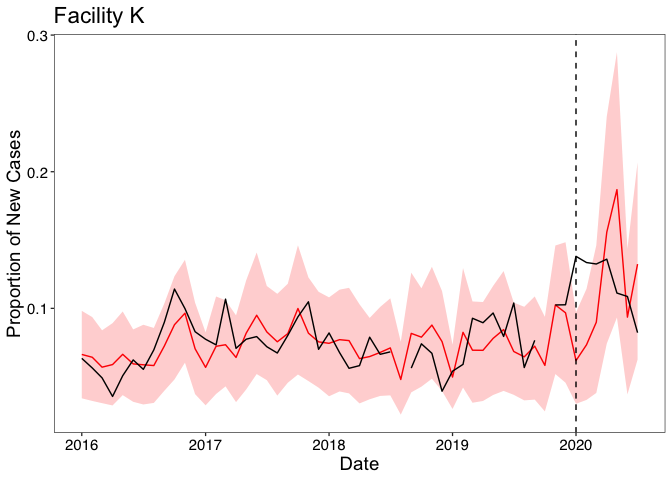
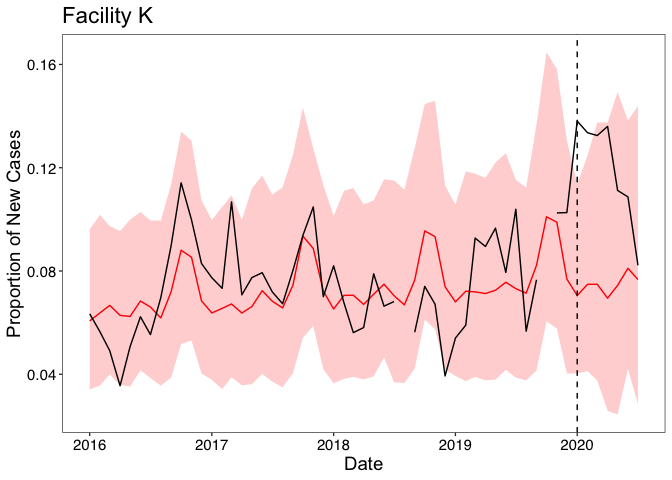
Knit and push

diff --git a/README.md b/README.md
@@ -1,3 +1,23 @@
+-   [Global COVID-19 Response](#global-covid-19-response)
+    -   [Table of Contents](#table-of-contents)
+    -   [About:](#about)
+    -   [Goals:](#goals)
+    -   [Modeling technique:](#modeling-technique)
+        -   [Facility-level models:](#facility-level-models)
+        -   [District and county-level
+            models:](#district-and-county-level-models)
+        -   [Deviations and data
+            visualizations:](#deviations-and-data-visualizations)
+        -   [Missing data considerations:](#missing-data-considerations)
+    -   [Overview of folders and files:](#overview-of-folders-and-files)
+        -   [Data](#data)
+        -   [R](#r)
+        -   [Figures](#figures)
+    -   [Examples](#examples)
+        -   [Loading Data and Functions](#loading-data-and-functions)
+        -   [Example 1: Single Facility](#example-1-single-facility)
+        -   [Example 2: All Facilities](#example-2-all-facilities)
+        -   [Example 3: County-level](#example-3-county-level)
 
 Global COVID-19 Response
 ========================
@@ -52,8 +72,6 @@ The process starting with the raw data and finishing with the various
 outputs is referred to as the Data Processing Pipeline (see Figure 1
 below):
 
-![](figures/pipeline.png)
-
 After data has been cleaned, it is processed according to the level it
 is available at (either on a facility of county/district basis) for each
 indicator. This is done by taking data from a historic baseline period,
@@ -70,10 +88,9 @@ processing stages.
 For facility-level assessments, we fit a generalized linear model with
 negative binomial distribution and log-link to estimate expected monthly
 counts. Only data from the baseline period will be used to estimate the
-expected counts: 
+expected counts:
 
-![](figures/modelling_equation_1.png)
-
+$$ \\log(E\[Y | year, t \]) = \\beta\_0 + \\beta\_1year + \\sum\_{k=1}^{3} \\beta\_{k1} cos(2 \\pi kt/12) + \\beta\_{k2} sin(2 \\pi kt/12) $$
 where Y indicates monthly indicator count, t indicates the cumulative
 month number. The year term captures trend, and the harmonic term
 captures seasonality. This model is an adaptation of that proposed by
@@ -125,7 +142,7 @@ region. The region-level count estimates can then be obtained by
 integrating over the random effects distribution. Ultimately, we did not
 choose this model due to its lack of flexibility in dealing with missing
 data.
-![](figures/modelling_equation_2.png)
+$$ \\log(E\[Y\_j | year, t \]) = \\beta\_0 ^\* + \\beta\_1^\*year + \\sum\_{k=1}^{3} \\beta\_{k1}^\* cos(2 \\pi kt/12) + \\beta\_{k2}^\* sin(2 \\pi kt/12) + \\gamma \_{0j} $$
 
 ### Deviations and data visualizations:
 
@@ -212,8 +229,9 @@ Examples
     ## #   indicator_denom_over5 <dbl>
 
 The data loaded here are taken from a county in Liberia and perturbed
-slightly. The indicator of interest is acute respiratory infections,
-disaggregated by age, and we also see total outpatient visits
+slightly. The indicator of interest is acute respiratory infections
+(first column: indicqtor\_count\_ari\_total), disaggregated by age
+(following 2 columns), and we also see total outpatient visits
 (indicator\_denom)–a measure of healthcare utilization–disaggregated by
 age.
 
@@ -238,19 +256,19 @@ model, and look at the results through the counts and proportion lenses.
     head(example_1_results)
 
     ##         site       date est_raw_counts ci_raw_counts_low ci_raw_counts_up
-    ## 1 Facility K 2016-01-01       282.6626               159              436
-    ## 2 Facility K 2016-02-01       294.4013               171              449
-    ## 3 Facility K 2016-03-01       294.5908               173              452
-    ## 4 Facility K 2016-04-01       280.8624               162              436
-    ## 5 Facility K 2016-05-01       296.5714               170              450
-    ## 6 Facility K 2016-06-01       322.2265               193              486
+    ## 1 Facility K 2016-01-01       278.9518               163              436
+    ## 2 Facility K 2016-02-01       291.6721               167              455
+    ## 3 Facility K 2016-03-01       292.0675               167              435
+    ## 4 Facility K 2016-04-01       277.7879               155              428
+    ## 5 Facility K 2016-05-01       292.9597               167              453
+    ## 6 Facility K 2016-06-01       319.0795               190              491
     ##   observed   est_prop ci_low_prop ci_up_prop observed_prop
-    ## 1      275 0.06627292  0.03416126 0.09819841    0.06340789
-    ## 2      258 0.06421627  0.03223817 0.09361499    0.05638112
-    ## 3      249 0.05696364  0.03061136 0.08394457    0.04912211
-    ## 4      172 0.05886302  0.02894142 0.08918248    0.03553719
-    ## 5      230 0.06637652  0.03648612 0.09771720    0.05070547
-    ## 6      342 0.05935893  0.03160090 0.08458903    0.06226106
+    ## 1      275 0.06064100  0.03412497 0.09617247    0.06340789
+    ## 2      258 0.06381119  0.03562063 0.10173186    0.05638112
+    ## 3      249 0.06667982  0.03993391 0.09738114    0.04912211
+    ## 4      172 0.06280992  0.03583161 0.09548554    0.03553719
+    ## 5      230 0.06238977  0.03526235 0.09986772    0.05070547
+    ## 6      342 0.06835973  0.04149827 0.10285818    0.06226106
 
 ##### Single Facility Counts Results
 
@@ -292,8 +310,8 @@ light red (using the model described above).
 
 #### Example 2: All Facilities
 
-We repeat the process above for all indicators and all facilites. In
-this example dataset, there are 25 facilites, 1 syndromic surveillance
+We repeat the process above for all indicators and all facilities. In
+this example dataset, there are 25 facilities, 1 syndromic surveillance
 indicator (ARI) and 1 denominator indicator (total denominator or
 outpatient visits–a measure of healthcare utilization).
 
@@ -336,11 +354,13 @@ outpatient visits–a measure of healthcare utilization).
     ## 5       17 0.1056909 0.009684995  0.1928747    0.06273063
     ## 6       44 0.1098465 0.013500311  0.2040849    0.16117216
 
-We need to repeat the same process above but for the denominator
-indicator variables. This is needed for the subsequent district-level
-and county-level analyses because we use the facility-level estimates
-for denominator to randomly impute, just as we randomly impute missing
-syndromic surveillance indicator values using the code chunk above.
+We repeat the same process above but for the denominator indicator
+variables. This is needed for the subsequent district-level and
+county-level analyses (and is implemented within those corresponding
+functions; this example is for demonstration’s sake) because we use the
+facility-level estimates for denominator to randomly impute, just as we
+randomly impute missing syndromic surveillance indicator values using
+the code chunk above.
 
     # loop over all denominator(outpatient) indicators and facilities
 
@@ -377,7 +397,7 @@ syndromic surveillance indicator values using the code chunk above.
     ## 5      271       NA          NA         NA            NA
     ## 6      273       NA          NA         NA            NA
 
-Below, we see results for ari counts for all facilities:
+Below, we see results for ARI counts for all facilities:
 
     plot_facet(input = facility.list[["indicator_count_ari_total"]])
 
@@ -396,15 +416,18 @@ course be done for the other indicators of interest.
     county_results <- fit.cluster.pi(data = data,
                                indicator_var = "indicator_count_ari_total",
                                denom_var = "indicator_denom",
-                               site_var = "county",
+                               site_var = "facility",
                                date_var = "date",
-                               denom_results_all = facility.list.denom, 
-                               indicator_results_all= facility.list, 
                                counts_only=FALSE,
                                n_count_base = 0,
                                p_miss_base = 0.2,
                                p_miss_eval = 0.5,
                                R=250)
+
+    ## Note: Using an external vector in selections is ambiguous.
+    ## ℹ Use `all_of(indicator)` instead of `indicator` to silence this message.
+    ## ℹ See <https://tidyselect.r-lib.org/reference/faq-external-vector.html>.
+    ## This message is displayed once per session.
 
     head(county_results)
 
